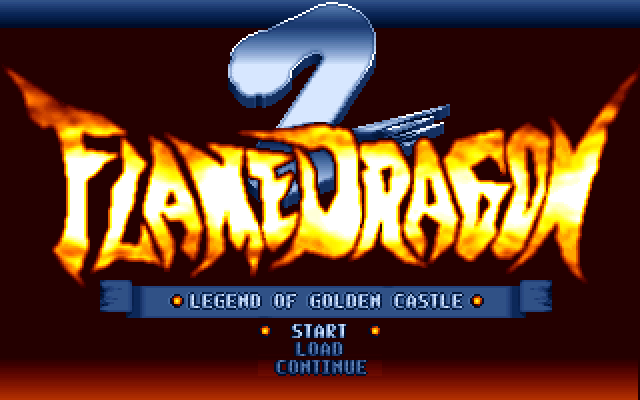
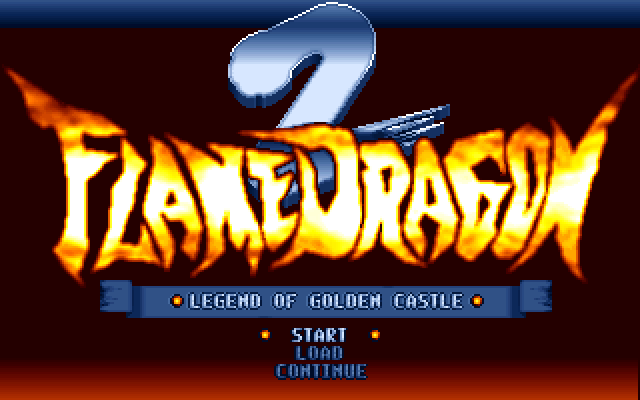
fix: match the original title menu exactly

Changed region(s): [[0.4062, 0.81, 0.5938, 0.96]]

diff --git a/remake/cmd/fd2/title.go b/remake/cmd/fd2/title.go
@@ -34,6 +34,15 @@ type titleAssets struct {
 	aniPath   string              // 玩家自備 ANI.DAT 路徑(""=無,退回捲動 fallback)
 }
 
+const (
+	titleMenuTopY = 164
+	titleMenuGapY = 9
+)
+
+func titleMenuY(item int) int {
+	return titleMenuTopY + item*titleMenuGapY
+}
+
 // applyTitleMenuEvent 是標題主選單輸入的單一具型別擁有者；Ebiten 鍵盤與
 // 決定性玩家路徑測試都必須經過此接縫。
 func (g *Game) applyTitleMenuEvent(event TitleMenuEvent) bool {
@@ -393,7 +402,7 @@ func (g *Game) drawTitle(screen *ebiten.Image) {
 			b := it.Bounds()
 			iop := &ebiten.DrawImageOptions{}
 			iop.GeoM.Scale(2, 2)
-			iop.GeoM.Translate(float64((320-b.Dx())/2*2), float64((162+i*9)*2)) // dosbox 實拍座標:y=162/171/180、間距9@320
+			iop.GeoM.Translate(float64((320-b.Dx())/2*2), float64(titleMenuY(i)*2)) // 同狀態 DOSBox 最佳匹配:y=164/173/182、間距9@320
 			screen.DrawImage(it, iop)
 		}
 		// F2 仍可切換重製端音源，但原版標題沒有常駐提示；忠實畫面不疊診斷文字。

diff --git a/remake/cmd/fd2/title_menu_state_test.go b/remake/cmd/fd2/title_menu_state_test.go
@@ -2,6 +2,15 @@ package main
 
 import "testing"
 
+func TestTitleMenuRowsMatchStableDOSBoxOracle(t *testing.T) {
+	want := [...]int{164, 173, 182}
+	for item, y := range want {
+		if got := titleMenuY(item); got != y {
+			t.Fatalf("title menu row %d = %d, want %d", item, got, y)
+		}
+	}
+}
+
 func TestTitleCutSkipIsPerStepAndDoesNotGrantEscapeOverride(t *testing.T) {
 	g := &Game{titlePhase: "cutscene", cutIdx: 2, cutFrame: 7, cutTick: 3}
 	if !g.trySkipTitleCutStep(cutStep{skip: true}, true) {

diff --git a/docs/knowledge-base/91-worklist.md b/docs/knowledge-base/91-worklist.md
@@ -19,7 +19,7 @@
 | 3 | 玩家第29戰 raw ch28 post（產品結案） | `RE-CLOSED`、`DATA-READY`、`RUNTIME-E1`；`0x1DB65`、group9→`0x25535`、持續隊伍與19人整備存讀檔均已接。全新 `Game` 冷讀後會消費ch29 pre的21句／七次staging；2026-08-26 再修正 ch30 缺最後focus view／HUD及錯誤非runtime constructor，正式 entry 現依 raw origin 去重 LOADCH party＋group0，再補 groups1–3，33筆全具 indexed presentation。相同長鏈已消費完整 END→YES、敵方回合、勝利、終局文字閘門與角色蒙太奇。外部 ch30 候選已由未修改原版同一程序以普通鍵盤完成`CONTINUE→END→YES→ENEMY PHASE`、敵方演出並交回玩家操作權；renderer同狀態合法相位達整幀AE0。fixed-hash `fd2004` 候選也由未修改原版普通 CONTINUE 進第29戰並完成一輪控制權交接；重製正式標題事件現以同檔完成 END／YES、實際敵軍行動及回合交還，並保留76筆 runtime／31人 persistent。checksum-valid `fd2021` raw chapter `0x1c` 槽則由普通 LOAD 連續走過save-NO、19人整備、戰前劇情至可操作第30戰。依玩家可見99%相似門檻，本項不再位於有效工作前沿 | remake 已完成；完整provenance、原版writer建槽、逐幀／精確音訊只列證據限制與可選polish。三份第三方存檔仍只列候選E2；高階圖像與sample 3語意仍為unknown，但均不得重開已閉合RE或阻擋交付 |
 | 4 | 玩家指令／法術／物品與敵方 AI 完整交易 | 敵方ID0／4、玩家／敵方ID1／2／3／5／6／7／8／9／10／11／12、玩家／敵方IDs17–22、玩家25–27及敵方26／27均已有caller-specific indexed owner；受限class19玩家ID32–35亦達`RUNTIME-E1`。ID4現使用#22／#23／#85逐Draw發布六段HP；敵方ID0..8也已全部改依raw `+6` selector與選定目的格重建目標陣列，不再錯走玩家confirmed-cursor admission。同時修正ID4／5實檔`EffectMode=1` gate。`0x15055`也已保存並消費`0x1567E` winner的完整raw target list；正常正分item type5／13／20／21／24的數值與caller-specific indexed演出均達`RUNTIME-E1`：分別走`0x211A4`、`0x1CD17`、`0x1CAC7`，具Draw發布與完整回復邊界。玩家正常item38／79也已共用後兩個owner，不再於確認時同步跳過畫面。33圖全量mask稽核再證實，排除mode8後的正常非玩家command producer只有ID0–7、9–18、20–22、26、27，全部已有indexed owner；唯一ID30位於mode8，不進scorer。敵方mode2無候選也已接`0x13C0F→0x13FD4`恢復／零修改共用收尾。2026-08-26末關動態診斷再修正物理helper完整item table、`0x15311`原地effect destination與FIGANI 379／168嚴格按需載入；固定版原版現於同一程序從普通`CONTINUE`走完`END→YES`、敵方演出並交回玩家操作權，撤回「兩次證據不能合併」的舊限制，但第三方存檔與停用音訊仍只列候選E2。共用短音效播放器現保留疊播 voice 至自然結束、逐幀回收並在退出時關閉，既有 raw cue 不再依賴被立即丟棄的 player；這是重製播放可靠性 E1，不提升精確音訊。敵方25缺正常AI producer，維持失敗即關閉；ID4無已證實正常玩家producer；28／30／31沒有已證實正常玩家取得來源。六個raw transient的玩家可見到期文字已由FDTXT#481..486正式消費，不把缺高階enum名稱列為runtime阻擋。 | 正常producer的`RUNTIME-E1`交易已閉合，正式owner不重做；下一步只做精確音訊與代表性同狀態E2 |
 | 4a | 玩家／敵方指令 `28／29／31` 原版演出 | `RE-CLOSED`（caller分歧與取得路徑窄稽核）／`RUNTIME-E1`：29玩家正式confirm已接多目標indexed owner與整批回復。28／31的固定learn table與32筆player defaults均無command bit，已知mask OR writer又只有level-up direct caller；因此「無已證實一般玩家取得來源」為強推論，不再把尋找selector列成交付阻擋，也不宣稱死碼。現有章節原始遮罩亦未找到ID29敵方producer，不猜接敵方owner | 下一個可驗收結果是command29未修改玩家同狀態逐幀／音訊E2。28／31只在動態原版出現command bit、找到新mask writer或同actor raw `+7` provenance時重開；敵方29只在出現正常producer時重開 |
-| 5 | 戰場與戰間 UI 收尾 | UI-03、UI-07～12 仍 partial；ch02賣出成功／加款／返回已有九組AE=0。獨立裝備service2與物品轉移service3也都有正常route-patched子面板證據；service3更已完成索爾短劍→悠妮、返回loop、雙方交易後物品清單及跨`town_ch02`重製JSON冷讀檔。物品清單舊記AE=2已定位為店員背景動畫`(175,90)/(176,90)`兩點相位差，靜態清單內容在該狀態一致；其他可見內容／幾何一致，但動畫相位未同步，只到partial E2。service2交易已改為私有 unit→raw裝備／重算→完整panel重建→一次發布，palette深層失敗保持roster／能力／panel原子不變，達`RUNTIME-E1`；目前原版CONTINUE快照只進戰場名冊／狀態面板，故mutation／restore E2未冒稱完成。service3現由正式menu Right×3進入同一typed input consumer，逐Draw驗證empty返回、full原子拒絕，以及目的取消後重入self-transfer，不再由測試直接改mode或呼叫transaction helper，達production-input `RUNTIME-E1`。標題 LOAD 的正式確認 owner 現以 checksum-valid 合成原版槽還原 `town_ch02`／typed party／gold／HUD gate，竄改 envelope 原子留在選槽，亦為`RUNTIME-E1`。外部晚期有效槽又由未修改原版普通LOAD走過save-NO、19人整備與戰前劇情至可操作第30戰，達候選E2；重製端同一固定槽的正式LOAD初始整備已凍結相位0，並依IDA直接指令分開FDOTHER #5 entries 31..40／42..51兩套數字字形，同狀態整幀達AE=0/64000。裝備收件者另以六人typed party沿正式menu→purchase→Yes production input完成三列scroll、滿欄／無合適角色原子返回與正常裝備／扣款`RUNTIME-E1`。`ch24_post`兩筆文字 lookup 的18句上下框、`FFFE/FFFD` pages、原版indexed五階段開框／頭像／字模、stable-page、逐字、完整頁等待期m0/m3嘴型與`sub_16B43`保存畫面收框，以及正式town26／祕密商店runner均達caller-specific `RUNTIME-E1`。2026-08-23 已移除標題畫面非原版 F2 常駐提示，並讓開場按鍵只中斷原始旗標允許略過的當前幕；F2功能仍保留 | ch24只剩未修改同狀態E2；其他故事caller仍需各自binding。整備固定初始狀態已超過99%忠實度門檻，不再追DOS逐週期差異；商店下一步是service3 empty／full與self／destination-cancel原版畫面；service2尚需原版mutation／restore畫面。第29戰勝利writer建槽來源降為證據限制，不再阻擋remake。 |
+| 5 | 戰場與戰間 UI 收尾 | UI-03、UI-07～12 仍 partial；穩定標題主選單已由目前原始碼重建擷取，校正三列原生座標後與320×200原版 oracle 達整幀AE=0，舊60–70%粗估已撤回；完整開場幕序與`logozoom`仍為近似。ch02賣出成功／加款／返回已有九組AE=0。獨立裝備service2與物品轉移service3也都有正常route-patched子面板證據；service3更已完成索爾短劍→悠妮、返回loop、雙方交易後物品清單及跨`town_ch02`重製JSON冷讀檔。物品清單舊記AE=2已定位為店員背景動畫`(175,90)/(176,90)`兩點相位差，靜態清單內容在該狀態一致；其他可見內容／幾何一致，但動畫相位未同步，只到partial E2。service2交易已改為私有 unit→raw裝備／重算→完整panel重建→一次發布，palette深層失敗保持roster／能力／panel原子不變，達`RUNTIME-E1`；目前原版CONTINUE快照只進戰場名冊／狀態面板，故mutation／restore E2未冒稱完成。service3現由正式menu Right×3進入同一typed input consumer，逐Draw驗證empty返回、full原子拒絕，以及目的取消後重入self-transfer，不再由測試直接改mode或呼叫transaction helper，達production-input `RUNTIME-E1`。標題 LOAD 的正式確認 owner 現以 checksum-valid 合成原版槽還原 `town_ch02`／typed party／gold／HUD gate，竄改 envelope 原子留在選槽，亦為`RUNTIME-E1`。外部晚期有效槽又由未修改原版普通LOAD走過save-NO、19人整備與戰前劇情至可操作第30戰，達候選E2；重製端同一固定槽的正式LOAD初始整備已凍結相位0，並依IDA直接指令分開FDOTHER #5 entries 31..40／42..51兩套數字字形，同狀態整幀達AE=0/64000。裝備收件者另以六人typed party沿正式menu→purchase→Yes production input完成三列scroll、滿欄／無合適角色原子返回與正常裝備／扣款`RUNTIME-E1`。`ch24_post`兩筆文字 lookup 的18句上下框、`FFFE/FFFD` pages、原版indexed五階段開框／頭像／字模、stable-page、逐字、完整頁等待期m0/m3嘴型與`sub_16B43`保存畫面收框，以及正式town26／祕密商店runner均達caller-specific `RUNTIME-E1`。2026-08-23 已移除標題畫面非原版 F2 常駐提示，並讓開場按鍵只中斷原始旗標允許略過的當前幕；F2功能仍保留 | ch24只剩未修改同狀態E2；其他故事caller仍需各自binding。穩定標題選單與整備固定初始狀態均已達100%同狀態像素，不再追DOS逐週期差異；商店下一步是service3 empty／full與self／destination-cancel原版畫面；service2尚需原版mutation／restore畫面。第29戰勝利writer建槽來源降為證據限制，不再阻擋remake。 |
 | 6 | 原版終局精確鏈 | `RUNTIME-E1`：第27戰缺天空之鑰現在沿正式typed gate進chapter26 `0x2BCE5`前綴與`FDTXT_027`兩個原版文字閘門，不再只顯示通用結語；chapter29 `sub_2C39B`文字把caller initial portrait與14句FDTXT speaker拆開，正式19×5 indexed owner逐Draw消費六段opening、四列逐glyph、mouth、Enter／Space、五段closing與source restore，收框後才resume，不再使用一般RGBA框。正式`battle_ch30→ending`則消費chapter29來源約束前綴／角色／20段尾段並停在#59，可選隊伍最終狀態循環已接。全新`Game`冷讀最終整備槽後，JOIN順序與persistent raw `+6/+7/+8/+0x20`已連續保存到定格、回顧及返回。三筆具位址音訊cue由typed `runtime_stage`正式消費；玩家自備MT-32 OGG的`FDMUS_004→stop→FDMUS_018`已實際解碼、建立與切換播放器，但無聲Docker不證明人耳輸出。80個實際FIGANI的header-zero `0x2939D` raw `+4..+7`、base scheduler與兩次配對已接；3%外層預算依賴未初始化區域值，降為非阻擋考古限制；未達E2 | 下一步只補原版 caller `0x2C2A6` 當下完整動態狀態、精確音訊時序／原版終端輸入及第27／30戰E2。不重做重製端連續性、speaker mapping、19×5 owner、兩個文字臂、定格、回顧循環、未初始化堆疊實作殘留或三筆raw cue |
 | 7 | 三平台打包與推廣片 | Linux AppImage現由雜湊鎖定工具映像與單一無網路、指定UID/GID容器產生；實際封包已由空工作目錄配唯讀XDG玩家資產抵達`town_ch02`並驗證畫面、格式、擁有權及SHA-256。Windows x86_64同樣由單一無網路容器產生GUI PE與可公開資產ZIP並完成格式／內容／雜湊檢查。macOS workflow已改產真正`.icns`，但尚無執行紀錄，派送受失效GitHub權杖阻擋。全戰役長程遊玩由使用者人工進行 | 補Windows真機啟動／輸入／存檔／音訊抽測；修復GitHub驗證後執行macOS CI並做相同抽測；抽測Linux其他發行版。三平台成功後再產最終版號封包與推廣片 |
 

diff --git a/docs/knowledge-base/58-fd2-exe-re-coverage.md b/docs/knowledge-base/58-fd2-exe-re-coverage.md
@@ -69,7 +69,7 @@
 > 來源仍不升完整 `PLAYER-E2`。同一正式長鏈現又由 END／YES 進入未刪減的第30戰
 > 敵軍回合並交還玩家控制；測試揭露 persistent record 的 raw `+0x34/+0x35/+0x36`
 > 曾在 typed party 邊界遺失，現已從固定槽保留到 AI scorer。沒有新增或猜測高階語意。
-| 開機、標題、LOAD、CONTINUE、存檔 | 部分 | 部分 | 部分 E1 | 原版錨點部分 E2 | 四槽 envelope、checksum、名冊與部分戰間落點已接；標題 selector 的正式確認 owner 現以 checksum-valid 合成槽完整還原 `town_ch02`、typed/raw party、gold、chapter、HUD gate並清除舊 battle state，竄改 envelope 原子留在選槽。current-runtime CONTINUE 與巢狀 SAVE／LOAD 已有正式 E1：LOAD 先完成私有候選 handoff，YES 後才原子替換；SAVE 保留四槽與未命名 bytes，非我方增援不占 persistent slot，具 constructor／identity 證據的新我方 JOIN 追加完整 raw record。重製 JSON LOAD 現另在發布前驗證 JOIN 順序、membership、部署與 materialized roster 的拓撲一致性；錯誤存檔不會部分改寫現行遊戲。新 `Game` 冷讀 `preparation_ch30` 後可保留完整加入順序並繼續終局。外部2003年第30戰候選已由未修改原版普通 `CONTINUE` 進場，重製亦以同檔還原33筆場上單位與31人持續隊伍；fixed-hash `fd2004` 候選也由普通 CONTINUE 進玩家第29戰並完成一輪控制權交接。另有 checksum-valid `fd2021` raw chapter `0x1c` 槽由未修改原版普通 LOAD 連續走過 save-NO、19人整備、戰前劇情至可操作第30戰。三者均非本專案從頭產生，只列候選E2。第29戰勝利當下由原版 writer 建槽的完整來源、delete／overwrite及跨章同狀態差分只列證據限制，不再阻擋99%相似門檻；長程遊玩改由使用者人工回報，不列代理工作項目。 |
+| 開機、標題、LOAD、CONTINUE、存檔 | 部分 | 部分 | 部分 E1 | 原版錨點部分 E2 | 穩定標題選單由目前原始碼重新擷取後，320×200與原版 oracle 達整幀 `AE=0/64000`；完整開場幕序與 `logozoom` 仍為近似，不外推完成。四槽 envelope、checksum、名冊與部分戰間落點已接；標題 selector 的正式確認 owner 現以 checksum-valid 合成槽完整還原 `town_ch02`、typed/raw party、gold、chapter、HUD gate並清除舊 battle state，竄改 envelope 原子留在選槽。current-runtime CONTINUE 與巢狀 SAVE／LOAD 已有正式 E1：LOAD 先完成私有候選 handoff，YES 後才原子替換；SAVE 保留四槽與未命名 bytes，非我方增援不占 persistent slot，具 constructor／identity 證據的新我方 JOIN 追加完整 raw record。重製 JSON LOAD 現另在發布前驗證 JOIN 順序、membership、部署與 materialized roster 的拓撲一致性；錯誤存檔不會部分改寫現行遊戲。新 `Game` 冷讀 `preparation_ch30` 後可保留完整加入順序並繼續終局。外部2003年第30戰候選已由未修改原版普通 `CONTINUE` 進場，重製亦以同檔還原33筆場上單位與31人持續隊伍；fixed-hash `fd2004` 候選也由普通 CONTINUE 進玩家第29戰並完成一輪控制權交接。另有 checksum-valid `fd2021` raw chapter `0x1c` 槽由未修改原版普通 LOAD 連續走過 save-NO、19人整備、戰前劇情至可操作第30戰。三者均非本專案從頭產生，只列候選E2。第29戰勝利當下由原版 writer 建槽的完整來源、delete／overwrite及跨章同狀態差分只列證據限制，不再阻擋99%相似門檻；長程遊玩改由使用者人工回報，不列代理工作項目。 |
 | 對話、頭像與過場原語 | 部分偏高 | ch24開框／穩定頁／逐字／嘴型／收框序列就緒 | 部分 E1 | 部分 | `0x15F84`、`0x1366A`、基本 pan／acting／spawn／join 等不應再從零重解。`ch24_post` 兩個 lookup 的18句已由 raw `FFED/FFEF/FFEE/FFFE/FFFD` 建成 typed pages；[`fd2_story_dialogue_layout_ida.txt`](../data/ida/fd2_story_dialogue_layout_ida.txt) 閉合`sub_165AC`五階段開框、最終格網、文字座標、`0x1645F..0x1647F`逐字順序、`sub_16C57→sub_16559`完整頁等待期m0/m3嘴型，以及`sub_16B43`的16×5→12×4→8×3→4×2→原背景 snapshot restore與可選游標尾段。正式第25戰戰後 runner 以 raw `+8/+5` 重播`0x12C60→0x3453E`命中，保留舊句直到收框完成才前進，並抵達 town26／祕密商店，達 caller-specific `RUNTIME-E1`。只重開E2或其他 caller binding；不把重製更新分配冒稱DOS精確時鐘。 |
 | 30 個 raw chapter 的戰前／戰後處理器 | 部分 | 60 份 handler script；部分 binding | 部分 E1 | 缺完整 E2 | 舊83個 raw unknown 已拆成80個已證實窄呼叫、3個已知但 caller／執行期未閉合的呼叫，已沒有未分類 call site。玩家第29戰 raw ch28 post 現已以綁定的視圖／HUD、`0x35BBA→0x1DB65`、group9、`0x22253`、`0x24B4D`、`0x35E5A`、隊伍同步與 `preparation_ch30` 存讀檔達成 E1；最終戰前 raw ch29 pre 亦已綁定 `LOADCH`、21句對話與七次 `0x33F78` 原生 staging。未證實高階圖像／樣本名稱與一般玩家 E2 仍保留。 |
 | 可編輯戰役與持續隊伍 | 部分 | 121 個 story／cutscene 節點；9 個 scripted、57 個 handler-bound、55 個 fallback | 部分 E1 | 缺完整 E2 | 24 個 postbattle 節點目前全部 active；admission blocked 為0。玩家第29戰正常 `story_ch29→battle_ch29` 入口現物化76-slot frontier與已證實視圖／HUD，戰果確認後播放 raw ch28 post、追加group9、同步持續隊伍，再進`preparation_ch30`並通過存讀檔。正式連續回歸現由全新 `Game` 冷讀該整備存檔，再走19人選擇、`story_ch30` 的21句對話／七次 staging，並以 ch29_pre 最後 focus 物化 `battle_ch30` view／HUD；party→group0 的 handler rows 經 raw origin 扣除後補 groups1–3，所有33筆皆具 indexed selector／presentation。回歸再消費完整 END→YES 介面、敵方回合、勝利、終局文字閘門與角色蒙太奇。最終戰部署成員保留戰後更新，未部署成員保留冷讀狀態，終局回顧依完整 JOIN 時序涵蓋全隊。外部固定雜湊候選於未修改原版第29、30戰各自完成單次 `CONTINUE→END→YES→ENEMY PHASE→玩家控制`；重製也以同一第29戰候選從正式標題事件完成 END／YES、實際敵軍行動與回合交還，保留76筆 runtime／31人 persistent。晚期有效槽另由普通 LOAD 走過19人整備與戰前劇情至第30戰控制權。這些仍受第三方來源與停用音訊限制，也尚未證明原版第29戰勝利、writer建槽至第30戰的同一連續程序。 |

diff --git a/docs/knowledge-base/SESSION-HANDOFF-2026-07-06.md b/docs/knowledge-base/SESSION-HANDOFF-2026-07-06.md
@@ -7206,3 +7206,15 @@ unit admission及foreground／HUD零覆蓋結論仍有效。
   資產作XDG覆蓋層，從空工作目錄實跑AppImage抵達`town_ch02`，產生203,943-byte
   PNG；產物與畫面UID/GID均為1000:1000，AppImage checksum複驗通過。
 - 沒有FD2容器殘留。唯一懸空清單項經前批確認屬其他VMS專案，未刪除。
+
+## 2026-08-26：標題穩定主選單像素閉合
+
+- 由目前原始碼在 `fd2-go-test-local` 一次性、無網路、指定UID/GID的容器內重建，
+  以 `FD2_SHOT_TITLE_MENU=1` 擷取正式 Ebiten renderer；修正前整幀
+  `AE=917/64000`，差異邊界只在三列選單 `x=129..190、y=162..189`，背景與標題
+  美術沒有差異。
+- 規格先固定共同向下兩列的原生座標 `164／173／182`；接入後重新擷取並以最近鄰
+  縮回320×200，與未修改原版 `title-original-dosbox.png` 達整幀
+  `AE=0/64000`。更新 `title-remake-runtime.png`，並以決定性單元測試鎖定三列。
+- 此結果撤回 `57` 的60–70%穩定選單粗估，但只關閉靜態主選單；完整開場幕序與
+  `logozoom` 仍為近似。沒有新開 RE，也不把透明合成候選的差異誤當正式 runtime。
